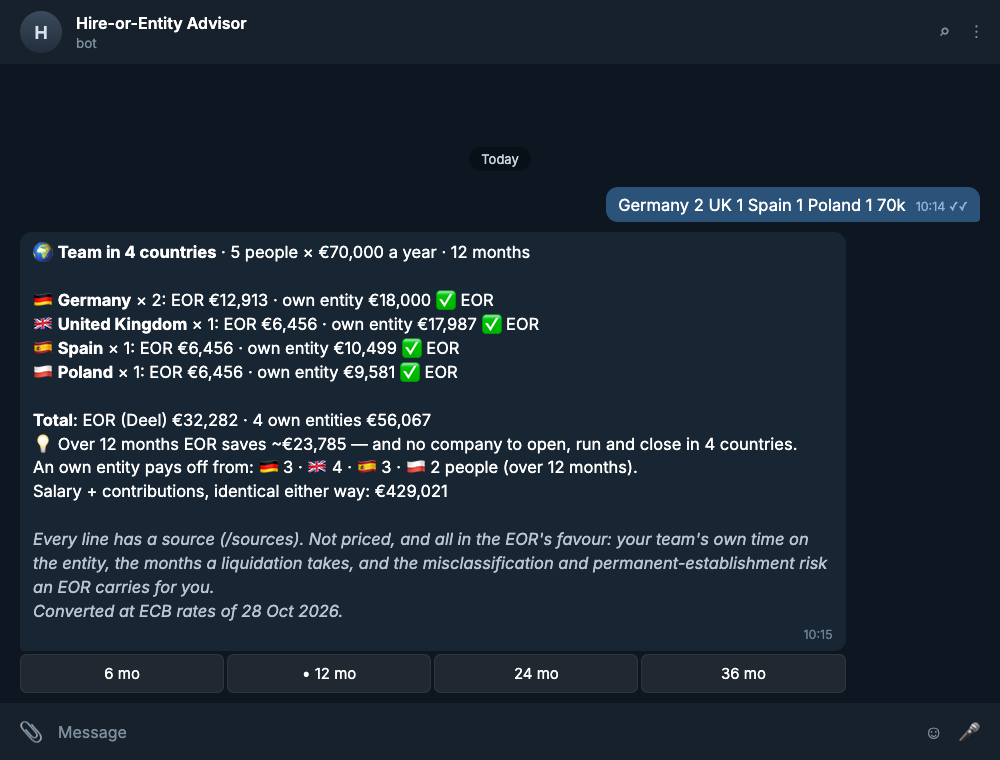
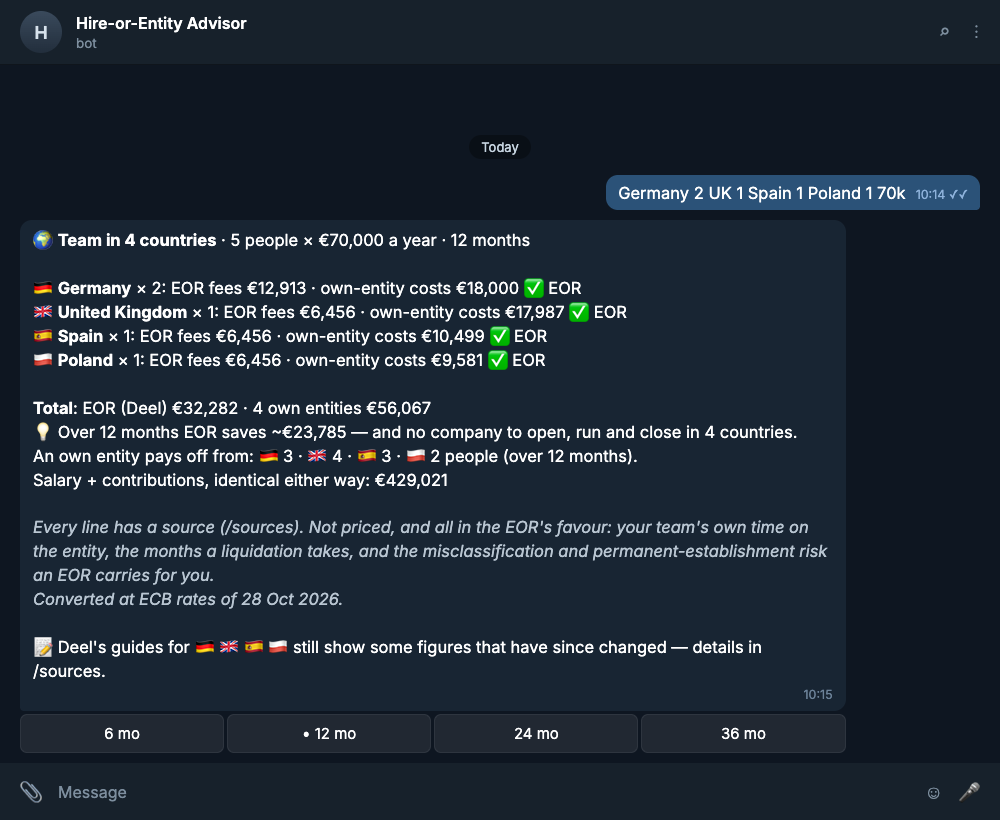
Team review fixes: euro default, warnings, compare counts, tie wording
- a bare team salary is euros for both the bounds check and the maths
- team replies carry the minimum-wage, outdated-year and FX warnings, and
  one summarised note for Deel-guide discrepancies (detail in /sources)
- /compare with head counts is an error instead of dropping them; /team
  with a total head count explains the per-country syntax
- rows say 'EOR fees' and 'own-entity costs'; an exact tie says so

diff --git a/docs/remotion/src/Root.tsx b/docs/remotion/src/Root.tsx
@@ -7,7 +7,7 @@ import {Shot, type ShotName} from './shots';
 /** Each shot is as tall as its own content, so the README has no letterboxing. */
 export const SHOTS: Partial<Record<ShotName, number>> = {
   start: 760,
-  team: 760,
+  team: 820,
   plan: 900,
   scale: 940,
   cost: 830,

diff --git a/deel_advisor/i18n.py b/deel_advisor/i18n.py
@@ -174,13 +174,14 @@ MESSAGES: Final[dict[Lang, dict[str, str]]] = {
         "plan.never_people": "At these prices an entity never pays off.",
         "plan.note": "<i>Every line has a source (/sources). Not priced, and all in the EOR's favour: your team's own time on the entity, the months a liquidation takes, and the misclassification and permanent-establishment risk an EOR carries for you.</i>",
         "team.header": "🌍 <b>Team in {countries} countries</b> · {team} × {salary} a year · {months}",
-        "team.row_eor": "{flag} <b>{country}</b> × {count}: EOR {eor} · own entity {entity} ✅ EOR",
-        "team.row_entity": "{flag} <b>{country}</b> × {count}: EOR {eor} · own entity {entity} ✅ entity",
+        "team.row_eor": "{flag} <b>{country}</b> × {count}: EOR fees {eor} · own-entity costs {entity} ✅ EOR",
+        "team.row_entity": "{flag} <b>{country}</b> × {count}: EOR fees {eor} · own-entity costs {entity} ✅ entity",
         "team.total": "<b>Total</b>: EOR (Deel) {eor} · {entities} own entities {entity}",
         "team.eor_saves": "💡 Over {months} EOR saves ~{diff} — and no company to open, run and close in {entities} countries.",
         "team.entities_win": "💡 Over {months} own entities would be ~{diff} cheaper — Deel Payroll can run their payroll.",
         "team.mix": "💡 Cheapest mix: EOR in {eor}, own entity on Deel Payroll in {entity} — {total}.",
         "team.breakeven": "An own entity pays off from: {list} people (over {months}).",
+        "team.guides": "📝 Deel's guides for {flags} still show some figures that have since changed — details in /sources.",
         "team.same": "Salary + contributions, identical either way: {amount}",
         "compare.header": "<b>{a} vs {b}</b> · {salary} gross a year",
         "compare.row": "{flag} <b>{country}</b>: {total} a year · +{rate}",
@@ -230,6 +231,7 @@ MESSAGES: Final[dict[Lang, dict[str, str]]] = {
         "err.same_country": "Those are the same country — pick two different ones.",
         "err.unexpected": "I didn't understand “{word}”.",
         "err.twice": "“{word}” says the same thing twice — keep one.",
+        "err.team_counts": "In a team, put the head count after each country: <code>/team Germany 2 Spain 1 70k</code>.",
         "err.team_needs_two": "A team spans at least two countries: <code>/team Germany 2 Spain 1 70k</code>.",
         "err.stale_button": "That button belongs to an old message. Send the query again.",
         "err.internal": "Something went wrong on my side. Please try again in a minute.",
@@ -300,13 +302,14 @@ MESSAGES: Final[dict[Lang, dict[str, str]]] = {
         "plan.never_people": "Zu diesen Preisen rechnet sich eine Gesellschaft nie.",
         "plan.note": "<i>Jede Zeile hat eine Quelle (/sources). Nicht eingepreist, und alles zugunsten des EOR: die Zeit deines Teams für die Gesellschaft, die Monate einer Liquidation und das Risiko von Scheinselbstständigkeit und Betriebsstätte, das ein EOR für dich trägt.</i>",
         "team.header": "🌍 <b>Team in {countries} Ländern</b> · {team} × {salary} im Jahr · {months}",
-        "team.row_eor": "{flag} <b>{country}</b> × {count}: EOR {eor} · eigene Gesellschaft {entity} ✅ EOR",
-        "team.row_entity": "{flag} <b>{country}</b> × {count}: EOR {eor} · eigene Gesellschaft {entity} ✅ Gesellschaft",
+        "team.row_eor": "{flag} <b>{country}</b> × {count}: EOR-Gebühren {eor} · Kosten eigene Gesellschaft {entity} ✅ EOR",
+        "team.row_entity": "{flag} <b>{country}</b> × {count}: EOR-Gebühren {eor} · Kosten eigene Gesellschaft {entity} ✅ Gesellschaft",
         "team.total": "<b>Gesamt</b>: EOR (Deel) {eor} · {entities} eigene Gesellschaften {entity}",
         "team.eor_saves": "💡 Über {months} spart EOR ~{diff} – und keine Gesellschaft zu gründen, zu führen und zu schließen in {entities} Ländern.",
         "team.entities_win": "💡 Über {months} wären eigene Gesellschaften ~{diff} günstiger – Deel Payroll kann ihre Abrechnung übernehmen.",
         "team.mix": "💡 Günstigste Kombination: EOR in {eor}, eigene Gesellschaft mit Deel Payroll in {entity} – {total}.",
         "team.breakeven": "Eine eigene Gesellschaft rechnet sich ab: {list} Personen (über {months}).",
+        "team.guides": "📝 Die Deel-Leitfäden für {flags} zeigen noch einige inzwischen geänderte Zahlen – Details unter /sources.",
         "team.same": "Gehalt + Beiträge, in beiden Fällen gleich: {amount}",
         "compare.header": "<b>{a} vs. {b}</b> · {salary} brutto im Jahr",
         "compare.row": "{flag} <b>{country}</b>: {total} im Jahr · +{rate}",
@@ -356,6 +359,7 @@ MESSAGES: Final[dict[Lang, dict[str, str]]] = {
         "err.same_country": "Das ist zweimal dasselbe Land – wähle zwei verschiedene.",
         "err.unexpected": "„{word}“ habe ich nicht verstanden.",
         "err.twice": "„{word}“ sagt etwas zum zweiten Mal – lass eins weg.",
+        "err.team_counts": "In einem Team steht die Personenzahl hinter jedem Land: <code>/team Germany 2 Spain 1 70k</code>.",
         "err.team_needs_two": "Ein Team umfasst mindestens zwei Länder: <code>/team Germany 2 Spain 1 70k</code>.",
         "err.stale_button": "Diese Schaltfläche gehört zu einer alten Nachricht. Schick die Anfrage noch einmal.",
         "err.internal": "Bei mir ist etwas schiefgelaufen. Versuch es in einer Minute noch einmal.",
@@ -425,13 +429,14 @@ MESSAGES: Final[dict[Lang, dict[str, str]]] = {
         "plan.never_people": "A estos precios, una sociedad no compensa nunca.",
         "plan.note": "<i>Cada línea tiene su fuente (/sources). Sin incluir, y todo a favor del EOR: el tiempo de tu equipo dedicado a la sociedad, los meses que dura una liquidación y el riesgo de falsos autónomos y de establecimiento permanente que el EOR asume por ti.</i>",
         "team.header": "🌍 <b>Equipo en {countries} países</b> · {team} × {salary} al año · {months}",
-        "team.row_eor": "{flag} <b>{country}</b> × {count}: EOR {eor} · sociedad propia {entity} ✅ EOR",
-        "team.row_entity": "{flag} <b>{country}</b> × {count}: EOR {eor} · sociedad propia {entity} ✅ sociedad",
+        "team.row_eor": "{flag} <b>{country}</b> × {count}: cuotas EOR {eor} · costes de sociedad propia {entity} ✅ EOR",
+        "team.row_entity": "{flag} <b>{country}</b> × {count}: cuotas EOR {eor} · costes de sociedad propia {entity} ✅ sociedad",
         "team.total": "<b>Total</b>: EOR (Deel) {eor} · {entities} sociedades propias {entity}",
         "team.eor_saves": "💡 En {months}, el EOR ahorra ~{diff}, sin ninguna sociedad que abrir, gestionar y cerrar en {entities} países.",
         "team.entities_win": "💡 En {months}, las sociedades propias saldrían ~{diff} más baratas; Deel Payroll puede gestionar sus nóminas.",
         "team.mix": "💡 La combinación más barata: EOR en {eor}, sociedad propia con Deel Payroll en {entity}: {total}.",
         "team.breakeven": "Una sociedad propia compensa a partir de: {list} personas (en {months}).",
+        "team.guides": "📝 Las guías de Deel de {flags} aún muestran algunas cifras que han cambiado; detalles en /sources.",
         "team.same": "Salario + cotizaciones, igual en ambos casos: {amount}",
         "compare.header": "<b>{a} vs. {b}</b> · {salary} brutos al año",
         "compare.row": "{flag} <b>{country}</b>: {total} al año · +{rate}",
@@ -481,6 +486,7 @@ MESSAGES: Final[dict[Lang, dict[str, str]]] = {
         "err.same_country": "Es el mismo país dos veces; elige dos distintos.",
         "err.unexpected": "No he entendido «{word}».",
         "err.twice": "«{word}» repite algo que ya has dicho; deja solo uno.",
+        "err.team_counts": "En un equipo, pon el número de personas tras cada país: <code>/team Germany 2 Spain 1 70k</code>.",
         "err.team_needs_two": "Un equipo abarca al menos dos países: <code>/team Germany 2 Spain 1 70k</code>.",
         "err.stale_button": "Ese botón es de un mensaje antiguo. Vuelve a enviar la consulta.",
         "err.internal": "Algo ha fallado por mi parte. Inténtalo de nuevo en un minuto.",
@@ -550,13 +556,14 @@ MESSAGES: Final[dict[Lang, dict[str, str]]] = {
         "plan.never_people": "Przy tych cenach spółka nigdy się nie opłaca.",
         "plan.note": "<i>Każda pozycja ma źródło (/sources). Nie wliczono, a wszystko to przemawia za EOR: czasu twojego zespołu poświęconego spółce, miesięcy trwania likwidacji oraz ryzyka błędnej kwalifikacji i zakładu podatkowego, które EOR bierze na siebie.</i>",
         "team.header": "🌍 <b>Zespół w {countries} krajach</b> · {team} × {salary} rocznie · {months}",
-        "team.row_eor": "{flag} <b>{country}</b> × {count}: EOR {eor} · własna spółka {entity} ✅ EOR",
-        "team.row_entity": "{flag} <b>{country}</b> × {count}: EOR {eor} · własna spółka {entity} ✅ spółka",
+        "team.row_eor": "{flag} <b>{country}</b> × {count}: opłaty EOR {eor} · koszty własnej spółki {entity} ✅ EOR",
+        "team.row_entity": "{flag} <b>{country}</b> × {count}: opłaty EOR {eor} · koszty własnej spółki {entity} ✅ spółka",
         "team.total": "<b>Razem</b>: EOR (Deel) {eor} · własne spółki ({entities}) {entity}",
         "team.eor_saves": "💡 Przez {months} EOR oszczędza ~{diff} — i nie trzeba zakładać, prowadzić ani likwidować spółek w {entities} krajach.",
         "team.entities_win": "💡 Przez {months} własne spółki byłyby tańsze o ~{diff} — Deel Payroll może prowadzić ich płace.",
         "team.mix": "💡 Najtańsze połączenie: EOR w {eor}, własna spółka z Deel Payroll w {entity} — {total}.",
         "team.breakeven": "Własna spółka opłaca się od: {list} os. (przez {months}).",
+        "team.guides": "📝 Przewodniki Deel dla {flags} nadal podają niektóre nieaktualne liczby — szczegóły w /sources.",
         "team.same": "Wynagrodzenie + składki, tak samo w obu wariantach: {amount}",
         "compare.header": "<b>{a} vs {b}</b> · {salary} brutto rocznie",
         "compare.row": "{flag} <b>{country}</b>: {total} rocznie · +{rate}",
@@ -606,6 +613,7 @@ MESSAGES: Final[dict[Lang, dict[str, str]]] = {
         "err.same_country": "To ten sam kraj — wybierz dwa różne.",
         "err.unexpected": "Nie rozumiem „{word}”.",
         "err.twice": "„{word}” powtarza coś, co już podano — zostaw jedno.",
+        "err.team_counts": "W zespole podaj liczbę osób po każdym kraju: <code>/team Germany 2 Spain 1 70k</code>.",
         "err.team_needs_two": "Zespół obejmuje co najmniej dwa kraje: <code>/team Germany 2 Spain 1 70k</code>.",
         "err.stale_button": "Ten przycisk pochodzi ze starej wiadomości. Wyślij zapytanie jeszcze raz.",
         "err.internal": "Coś poszło nie tak po mojej stronie. Spróbuj ponownie za minutę.",
@@ -674,13 +682,14 @@ MESSAGES: Final[dict[Lang, dict[str, str]]] = {
         "plan.never_people": "При тези цени дружеството никога не се изплаща.",
         "plan.note": "<i>Всеки ред има източник (/sources). Не са включени, и всичко е в полза на EOR: времето на екипа ви за дружеството, месеците, които отнема ликвидацията, и рискът от прекласифициране и място на стопанска дейност, който EOR поема вместо вас.</i>",
         "team.header": "🌍 <b>Екип в {countries} държави</b> · {team} × {salary} годишно · {months}",
-        "team.row_eor": "{flag} <b>{country}</b> × {count}: EOR {eor} · собствено дружество {entity} ✅ EOR",
-        "team.row_entity": "{flag} <b>{country}</b> × {count}: EOR {eor} · собствено дружество {entity} ✅ дружество",
+        "team.row_eor": "{flag} <b>{country}</b> × {count}: такси EOR {eor} · разходи за собствено дружество {entity} ✅ EOR",
+        "team.row_entity": "{flag} <b>{country}</b> × {count}: такси EOR {eor} · разходи за собствено дружество {entity} ✅ дружество",
         "team.total": "<b>Общо</b>: EOR (Deel) {eor} · собствени дружества ({entities}) {entity}",
         "team.eor_saves": "💡 За {months} EOR спестява ~{diff} — и няма дружества за учредяване, поддръжка и закриване в {entities} държави.",
         "team.entities_win": "💡 За {months} собствените дружества биха били по-евтини с ~{diff} — Deel Payroll може да поеме ведомостите им.",
         "team.mix": "💡 Най-евтината комбинация: EOR в {eor}, собствено дружество с Deel Payroll в {entity} — {total}.",
         "team.breakeven": "Собствено дружество се изплаща от: {list} служители (за {months}).",
+        "team.guides": "📝 Ръководствата на Deel за {flags} все още показват някои вече променени цифри — подробности в /sources.",
         "team.same": "Заплата + осигуровки, еднакви и в двата варианта: {amount}",
         "compare.header": "<b>{a} vs {b}</b> · {salary} бруто годишно",
         "compare.row": "{flag} <b>{country}</b>: {total} годишно · +{rate}",
@@ -730,6 +739,7 @@ MESSAGES: Final[dict[Lang, dict[str, str]]] = {
         "err.same_country": "Това е една и съща държава — изберете две различни.",
         "err.unexpected": "Не разбрах „{word}“.",
         "err.twice": "„{word}“ повтаря вече казаното — оставете едно.",
+        "err.team_counts": "В екип посочете броя хора след всяка държава: <code>/team Germany 2 Spain 1 70k</code>.",
         "err.team_needs_two": "Екипът обхваща поне две държави: <code>/team Germany 2 Spain 1 70k</code>.",
         "err.stale_button": "Този бутон е от старо съобщение. Изпратете заявката отново.",
         "err.internal": "Нещо се обърка при мен. Опитайте пак след минута.",

diff --git a/deel_advisor/replies.py b/deel_advisor/replies.py
@@ -330,6 +330,9 @@ def team(lang: Lang, query: Query, ctx: Context) -> str:
     currency the salary was typed in (EUR by default).
     """
     common = query.currency or "EUR"
+    notes: list[str] = []
+    # One line for the guides, not one per figure: the per-figure detail is in /plan and /sources.
+    outdated_guides: list[str] = []
     out = [
         t(lang, "team.header", countries=len(query.countries), team=i18n.people(lang, query.people),
           salary=_money(lang, query.salary, common), months=i18n.months(lang, query.months)),
@@ -342,6 +345,15 @@ def team(lang: Lang, query: Query, ctx: Context) -> str:
     for country, count in zip(query.countries, query.counts, strict=True):
         local = ctx.rates.convert(query.salary, common, country.currency)
         result = calc.plan(country, local, eor_fee(country, ctx), count, query.months, payroll_fee(country, ctx))
+        minimum = country.minimum_wage
+        if minimum is not None and local < minimum.annual:
+            notes.append(f"{country.flag} " + t(lang, "cost.below_min_wage", year=country.year,
+                                                  minimum=_money(lang, minimum.annual, country.currency)))  # fmt: skip
+        state = freshness.check(country, ctx.today)
+        if state.mismatches:
+            outdated_guides.append(country.flag)
+        if state.outdated_year:
+            notes.append(f"{country.flag} " + t(lang, "warn.year", year=country.year, current=ctx.today.year))
         eor = ctx.rates.convert(result.eor_fees, country.currency, common)
         entity = ctx.rates.convert(result.entity_overhead, country.currency, common)
         total_eor += eor
@@ -364,7 +376,10 @@ def team(lang: Lang, query: Query, ctx: Context) -> str:
           entity=_money(lang, total_entity, common)),
     ]  # fmt: skip
     diff = whole(abs(total_entity - total_eor))
-    if total_eor < total_entity:
+    if diff == 0:
+        out.append(t(lang, "plan.even", team=i18n.people_for(lang, query.people),
+                     months=i18n.months(lang, query.months)))  # fmt: skip
+    elif total_eor < total_entity:
         out.append(t(lang, "team.eor_saves", months=i18n.months(lang, query.months),
                      diff=_money(lang, diff, common), entities=entities))  # fmt: skip
     else:
@@ -380,8 +395,13 @@ def team(lang: Lang, query: Query, ctx: Context) -> str:
         "",
         t(lang, "plan.note"),
     ]
-    if query.currency is None or any(c.currency != common for c in query.countries):
-        out.append(t(lang, "compare.fx", date=_date(ctx.rates.day, lang)))
+    # The EOR fee is a USD list price, so a conversion is always involved.
+    out.append(t(lang, "compare.fx", date=_date(ctx.rates.day, lang)))
+    if outdated_guides:
+        notes.append(t(lang, "team.guides", flags=" ".join(outdated_guides)))
+    notes += _fx_warning(lang, ctx)
+    if notes:
+        out += ["", *notes]
     return "\n".join(out)
 
 

diff --git a/tests/test_parser.py b/tests/test_parser.py
@@ -439,7 +439,7 @@ def test_team_command_and_count_after_one_country(index: CountryIndex) -> None:
 
 @pytest.mark.parametrize(
     ("text", "code"),
-    [("Testland 2 Testland 1 70k", "same_country"), ("Testland 2 Otherland 1 70k 5 people", "unexpected"),
+    [("Testland 2 Testland 1 70k", "same_country"), ("Testland 2 Otherland 1 70k 5 people", "team_counts"),
      ("Testland 2", "no_salary"), ("Testland 2 Otherland 1", "no_salary")],
 )  # fmt: skip
 def test_team_errors(text: str, code: str, index: CountryIndex) -> None:
@@ -485,9 +485,24 @@ def test_head_count_and_people_together_is_said_twice(index: CountryIndex) -> No
 
 
 def test_team_error_params(index: CountryIndex, testland: Country) -> None:
-    assert err("Testland 2 Otherland 1 70k 5 people", index).params == {"word": "5"}
+    assert err("Testland 2 Otherland 1 70k 5 people", index).code == "team_counts"
     other = Country.model_validate(country_data(country="Other", code="OT", aliases=["other"]))
     with pytest.raises(ParseError) as caught:
         build_query("team", (testland, other), D(50_000), counts=(MAX_PEOPLE, 1))  # 10,001 in total
     assert (caught.value.code, caught.value.params) == ("people_range", {"maximum": str(MAX_PEOPLE)})
     assert build_query("team", (testland, other), D(50_000), counts=(MAX_PEOPLE - 1, 1)).people == MAX_PEOPLE
+
+
+def test_team_salary_without_currency_is_euro_for_checks_and_maths(index: CountryIndex) -> None:
+    def in_eur(amount: Decimal, currency: str) -> Decimal:
+        return amount / {"EUR": 1, "PLN": 4}[currency]
+
+    pz = Country.model_validate(country_data(country="Pzland", code="PZ", aliases=["pzland"], currency="PLN",
+                                             official={"checkedAt": "2026-10-01", "figures": {}}))  # fmt: skip
+    both = CountryIndex([pz, *index.by_alias.values()])
+    query = parse("pzland 2 testland 1 1500", both, CURRENCIES, in_eur=in_eur)
+    assert (query.currency, query.salary) == ("EUR", 1500)  # not PLN 1500 checked, €1500 computed
+
+
+def test_compare_with_head_counts_is_an_error(index: CountryIndex) -> None:
+    assert err("Testland 2 Otherland 3 70k", index, "compare").params == {"word": "2"}

diff --git a/tests/test_replies.py b/tests/test_replies.py
@@ -262,7 +262,7 @@ def test_team_mix_when_countries_disagree(testland: Country, fixed_rates: Rates)
     ctx = replies.Context(_catalog(testland, cheapland), fixed_rates, TODAY)
     query = build_query("team", (testland, cheapland), Decimal(48_000), currency="EUR", counts=(1, 1))
     text = replies.team("en", query, ctx)
-    assert "🏳 <b>Testland</b> × 1: EOR €6,600 · own entity €6,600 ✅ EOR" in text  # a tie stays on EOR
+    assert "🏳 <b>Testland</b> × 1: EOR fees €6,600 · own-entity costs €6,600 ✅ EOR" in text  # a tie stays on EOR
     assert "✅ entity" in text
     assert "Cheapest mix" in text
 
@@ -274,3 +274,23 @@ def test_team_reply_in_every_language(real_catalog: Catalog, fixed_rates: Rates,
     text = replies.team(lang, query, ctx)  # type: ignore[arg-type]
     assert "{" not in text
     assert text.count("<b>") == text.count("</b>")
+
+
+def test_team_reply_carries_the_warnings(real_catalog: Catalog, fixed_rates: Rates) -> None:
+    ctx = replies.Context(real_catalog, fixed_rates, TODAY)
+    query = parse("Germany 2 UK 1 20k", real_catalog.index, {"EUR", *fixed_rates.per_eur})
+    text = replies.team("en", query, ctx)
+    assert "🇩🇪 ⚠ Below the 2026 minimum wage" in text
+    assert "📝 Deel's guides for 🇩🇪 🇬🇧 still show some figures that have since changed" in text
+    assert text.count("📝") == 1  # one line for the guides, the detail lives in /sources
+
+
+def test_team_tie_is_called_a_tie(testland: Country, fixed_rates: Rates) -> None:
+    twin = Country.model_validate(country_data(country="Twin", code="TW", aliases=["twin"]))
+    ctx = replies.Context(_catalog(testland, twin), fixed_rates, TODAY)
+    # One person each over 12 months: 6,600 of EOR fees against 6,600 of entity costs per country.
+    text = replies.team(
+        "en", build_query("team", (testland, twin), Decimal(48_000), currency="EUR", counts=(1, 1)), ctx
+    )
+    assert "both cost about the same" in text
+    assert "~€0" not in text

diff --git a/deel_advisor/parser.py b/deel_advisor/parser.py
@@ -350,18 +350,21 @@ def parse(
         found.set_people(single, str(single))  # "Germany 2 80k" is "Germany 80k 2 people"
     elif counted and kind is None:
         kind = "team"
+    elif counted and kind == "compare":
+        raise ParseError("unexpected", word=str(next(c for c in found.counts if c is not None)))
     if kind is None:
         kind = "compare" if len(found.countries) >= 2 else "cost"
     if kind == "cost" and (found.people is not None or found.months is not None):
         kind = "plan"  # "Germany 80k 5 people", or "/cost Germany 80k 5 people", asks a planning question
     if kind == "team":
         if found.people is not None:
-            raise ParseError("unexpected", word=str(found.people))  # a team has a count per country
+            raise ParseError("team_counts")  # a team has a head count per country, not one in total
         return build_query(
             kind,
             tuple(found.countries),
             found.salary * 12 if found.monthly else found.salary,
-            currency=found.currency,
+            # A team spans currencies, so a bare salary is in euros, for checking and computing alike.
+            currency=found.currency or "EUR",
             months=found.months if found.months is not None else DEFAULT_MONTHS,
             salary_was_monthly=found.monthly,
             counts=tuple(c if c is not None else 1 for c in found.counts),

diff --git a/README.md b/README.md
@@ -85,7 +85,8 @@ Germany, United Kingdom, Spain, Poland and Bulgaria, with 2026 rates.
 ### <a name="team"></a> A team across countries
 
 `/team Germany 2 UK 1 Spain 1 Poland 1 70k` — a head count after each country, one salary for
-everyone (in any ECB currency), and optionally a horizon: `… 24 months`. The free-text form works
+everyone, and optionally a horizon: `… 24 months`. A team spans currencies, so a bare salary is
+in euros; add a currency for another one (`… 60000 GBP`). The free-text form works
 too, as above.
 
 Each country gets the same comparison as `/plan`: EOR fees against what an own entity costs
